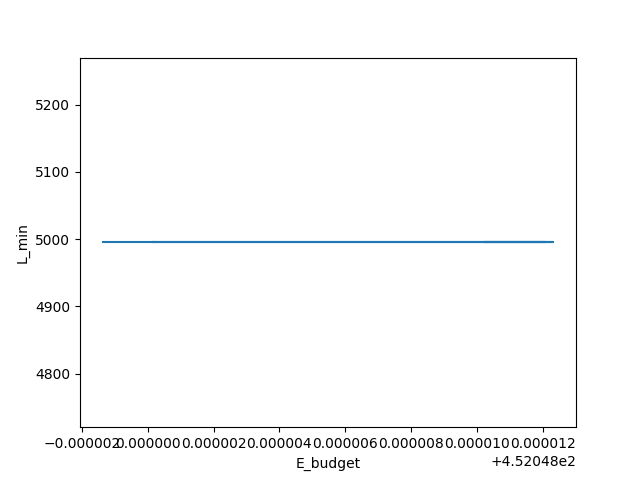
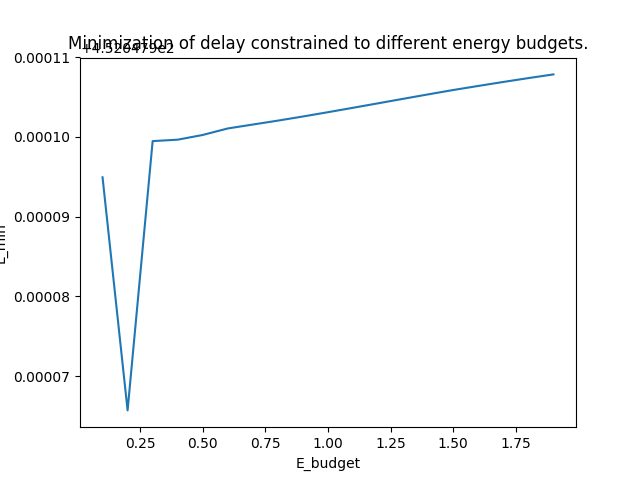
Foo bar baz

diff --git a/project1/calculations.py b/project1/calculations.py
@@ -87,15 +87,15 @@ for Fs in [1.0/(60*30*1000), 2.0/(60*30*1000), 6.0/(60*30*1000), 9000000.0/(60*3
     Es = []
     Ls = []
 
-    print(A1)
-    print(A2)
-    print(A3)
-    print(A4)
-    print(alpha1)
-    print(alpha2)
-    print(alpha3)
-    print(beta1)
-    print(beta2)
+    # print(A1)
+    # print(A2)
+    # print(A3)
+    # print(A4)
+    # print(alpha1)
+    # print(alpha2)
+    # print(alpha3)
+    # print(beta1)
+    # print(beta2)
 
     # Calculate E and L
     for Tw in range(int(Tw_min), int(Tw_max)):
@@ -138,37 +138,78 @@ Fs = 1.0/(60*30*1000)
 alpha1 = A1+A3*Fs
 alpha2 = A4*Fs
 alpha3 = A2*Fs
+
 # Decision variable
 x = Variable("x")
 y= Variable("Fout_d",Fout_d[1])
 z= Variable("test",((Tcs + Tal + x/2.0 + Tack + Tdata) * y * Fs * C))
 
-# Constraint
-constraints = [Lmax >= beta1 * x + beta2, Tw_min <= x, Tw_max >= x, z <=0.25]
-            # (Tcs*Tal+x/2.0 + Tack + Tdata) * y * fs * c
+# E = []
+# L = []
+#
+# for Lmax in range(1000, 5000, 10):
+#     # Constraint
+#     constraints = [Lmax >= beta1 * x + beta2, Tw_min <= x, Tw_max >= x, z <=0.25]
+#                 # (Tcs*Tal+x/2.0 + Tack + Tdata) * y * fs * c
+#
+#     # Objective (to minimize)
+#     objective = alpha1/x + alpha2*x + alpha3
+#
+#     # Formulate the Model
+#     m = Model(objective, constraints)
+#
+#     # Solve the Model
+#     #sol = m.solve(verbosity=0)
+#     sol = m.debug(verbosity=0)
+#
+#     # print selected results
+#     #print(sol)
+#     #print("Optimal so:", sol['cost'])
+#     E.append(sol['cost'])
+#     L.append(Lmax)
+#     #print(sol(x))
+#     # print(sol.table())
+#
+# plt.title("Minimization of energy constrained to different maximum delays.")
+# plt.xlabel("L_max")
+# plt.ylabel("E_min")
+# plt.plot(L, E)
+# plt.savefig('Minimize_energy.png')
+# plt.clf()
 
-# Objective (to minimize)
-objective = alpha1/x + alpha2*x + alpha3
 
-# Formulate the Model
-m = Model(objective, constraints)
+E = []
+L = []
 
-# Solve the Model
-#sol = m.solve(verbosity=0)
-sol = m.debug(verbosity=0)
+e_budget = 0.00
+while e_budget < 1:
+    e_budget += 0.01
 
-# print selected results
-#print(sol)
-print("Optimal so:", sol['cost'])
-print(sol(x))
-# print(sol.table())
+    constraints = [e_budget >= alpha1/x + alpha2*x + alpha3, Tw_min <= x, Tw_max >= x, z <=0.25]
+
+    objective = beta1*x + beta2
+
+    l = Model(objective, constraints)
+
+    sol = l.debug(verbosity=0)
+    #print(sol['cost'])
+    print(sol)
+
+    # opt = float(sol['cost'])
+    # print(opt)
+
+    # L.append(float(sol['cost']))
+    # E.append(e_budget)
 
 
-
-
-
-
-
+# plt.title("Minimization of delay constrained to different energy budgets.")
+# plt.xlabel("E_budget")
+# plt.ylabel("L_min")
+# print(E)
+# print(L)
+# plt.plot(E, L)
+# plt.savefig('Minimize_delay.png')
+# plt.clf()
 
 
 

diff --git a/project1/README.md b/project1/README.md
@@ -56,7 +56,12 @@ When the sampling rate is very high, we find ourselves in a case where our model
 
 
 ## Q2
-- Solve optimization problem
+For the optimization problems that are presented in the project, we choose to use Python with packages/libraries gpkit with coherent dependencies.
+
+**Minimize energy consumption subject to some maximum delay**
+![Minimize_energy](Minimize_energy.png)
+
+The graph yields that
 
 
 ## Q3
